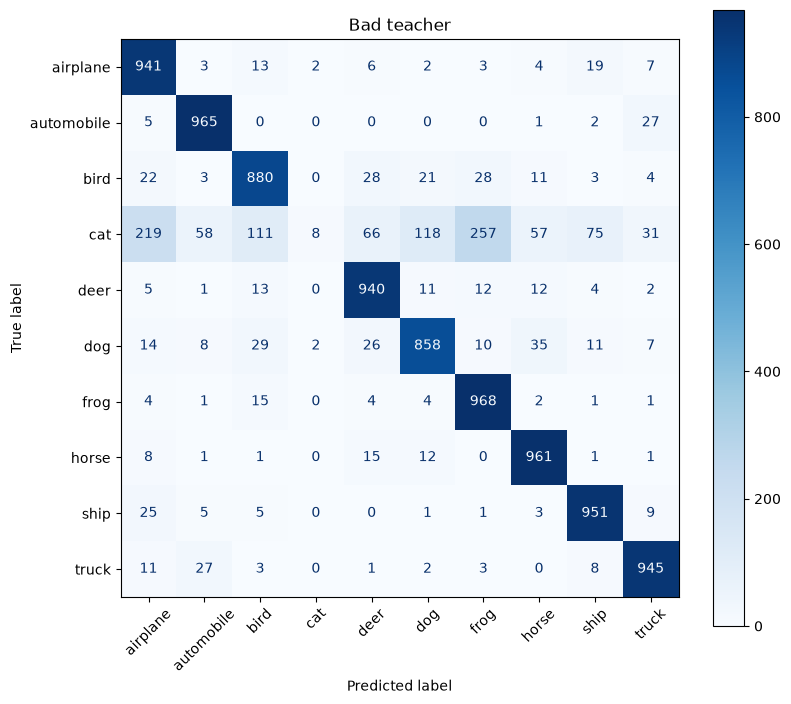
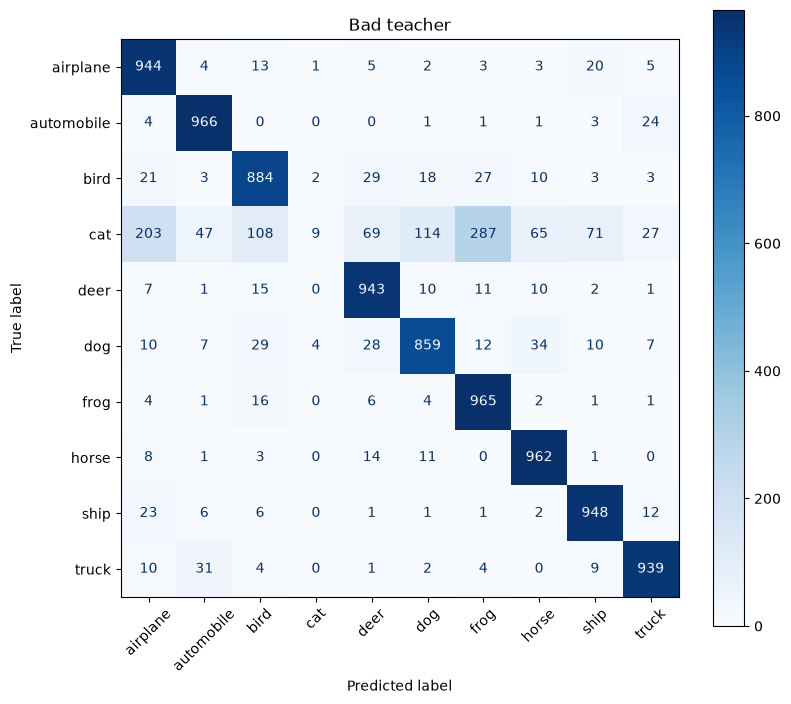
probing, relearning, evaluation for all methods and results

diff --git a/relearn.py b/relearn.py
@@ -1,0 +1,94 @@
+import copy
+import torch
+import torch.nn as nn
+import matplotlib.pyplot as plt
+from torch.utils.data import DataLoader, Subset
+
+from data import splits
+from evalutils import get_accuracy
+from utils import set_seed, get_device, load_model
+
+
+def relearn(model, few_cats, train_retain, test_forget, device, steps=300, lr=1e-4,
+            eval_every=10, cat_batch=16, retain_batch=64):
+    
+    """
+    Tests how quickly a model relearns the forgotten class when given
+    a fraction of the forgotten data, alongside normal retain data.
+    If a method only masked the final layer but kept the features,
+    the model will relearn the forgotten class very quickly.
+    """ 
+
+    model = copy.deepcopy(model).to(device)
+    criterion = nn.CrossEntropyLoss()
+    optimizer = torch.optim.SGD(model.parameters(), lr=lr, momentum=0.9, weight_decay=5e-4)
+
+    loader_cats = DataLoader(few_cats, batch_size=cat_batch, shuffle=True, drop_last=True)
+    loader_retain = DataLoader(train_retain, batch_size=retain_batch, shuffle=True, drop_last=True)
+
+    accs = [get_accuracy(model, test_forget, device)]
+    step = 0
+
+    while step < steps:
+        for (xc, yc), (xr, yr) in zip(loader_cats, loader_retain):
+            model.train()
+            x = torch.cat([xc, xr]).to(device)
+            y = torch.cat([yc, yr]).to(device)
+
+            loss = criterion(model(x), y)
+            optimizer.zero_grad()
+            loss.backward()
+            optimizer.step()
+
+            step += 1
+            if step % eval_every == 0:
+                accs.append(get_accuracy(model, test_forget, device))
+            if step == steps:
+                break
+
+    return accs
+
+
+def reauc(accs, orig_acc):
+    mean_acc = (0.5 * accs[0] + sum(accs[1:-1]) + 0.5 * accs[-1]) / (len(accs) - 1)
+    return mean_acc / orig_acc
+
+
+if __name__ == "__main__":
+    device = get_device()
+    train_retain, train_forget, _, test_forget = splits()
+
+    set_seed(42)
+    few_cats = Subset(train_forget, torch.randperm(len(train_forget))[:1000].tolist())
+
+    original = load_model("checkpoints/original_model.pt", device)
+    orig_acc = get_accuracy(original, test_forget, device)
+    print(f"Original (baseline): {orig_acc:.4f}")
+
+    models = {
+        "Retrained": "checkpoints/retrained_model.pt",
+        "Gradient ascent": "checkpoints/unlearn_gradient_ascent.pt",
+        "Bad teacher": "checkpoints/unlearn_bad_teacher.pt",
+        "Fisher Method (hard)": "checkpoints/unlearn_fisher_prune_hard.pt",
+        "Fisher Method (reset)": "checkpoints/unlearn_fisher_prune_reset.pt",
+    }
+
+    steps_x = list(range(0, 301, 10))
+    plt.axhline(y=orig_acc, color="black", linestyle="--", label="Original (baseline)")
+
+    for name, path in models.items():
+        set_seed(42)
+        accs = relearn(load_model(path, device), few_cats, train_retain, test_forget, device)
+
+        score = reauc(accs, orig_acc)
+        hit = next((s for s, a in zip(steps_x, accs) if a >= 0.75), ">300")
+        print(f"{name}: start {accs[0]:.4f} | end {accs[-1]:.4f} | steps to 75%: {hit} | ReAUC: {score:.4f}")
+
+        plt.plot(steps_x, accs, label=name)
+
+    plt.xlabel("fine-tuning steps")
+    plt.ylabel("test accuracy on cats")
+    plt.title("Relearning from 1000 cats")
+    plt.legend()
+    plt.savefig("results/relearn.png")
+    plt.close()

diff --git a/probe.py b/probe.py
@@ -1,0 +1,45 @@
+from sklearn.metrics import balanced_accuracy_score, roc_auc_score
+from sklearn.pipeline import make_pipeline
+from sklearn.linear_model import LogisticRegression
+from sklearn.preprocessing import StandardScaler
+
+from data import load_cifar, forget_class
+from evalutils import get_features
+from utils import get_device, load_model, set_seed
+
+def linear_probe(model, train, test, device):
+    x_train, y_train = get_features(model, train, device)
+    x_test, y_test = get_features(model, test, device)
+
+    y_train = (y_train == forget_class)
+    y_test = (y_test == forget_class)
+
+    probe = make_pipeline(
+        StandardScaler(),
+        LogisticRegression(class_weight="balanced", max_iter=1000, random_state=42),
+    )
+    probe.fit(x_train, y_train)
+
+    bal_acc = balanced_accuracy_score(y_test, probe.predict(x_test))
+    auc = roc_auc_score(y_test, probe.predict_proba(x_test)[:, 1])
+    return bal_acc, auc
+
+if __name__ == "__main__":
+    set_seed(42)
+    device = get_device()
+
+    train, test = load_cifar(augment=False)
+
+    models = {
+        "Original": "checkpoints/original_model.pt",
+        "Retrained": "checkpoints/retrained_model.pt",
+        "Gradient ascent": "checkpoints/unlearn_gradient_ascent.pt",
+        "Bad teacher": "checkpoints/unlearn_bad_teacher.pt",
+        "Fisher Method (hard)": "checkpoints/unlearn_fisher_prune_hard.pt",
+        "Fisher Method (reset)": "checkpoints/unlearn_fisher_prune_reset.pt"
+    }
+
+    for name, path in models.items():
+        model = load_model(path, device)
+        bal_acc, auc = linear_probe(model, train, test, device)
+        print(f"{name}: balanced acc {bal_acc:.4f} | AUC {auc:.4f}")

diff --git a/evaluate.py b/evaluate.py
@@ -1,4 +1,3 @@
-import numpy as np
 from torch.utils.data import ConcatDataset
 
 from data import splits, class_names, forget_class
@@ -38,9 +37,12 @@ if __name__ == "__main__":
     retrained = load_model("checkpoints/retrained_model.pt", device)
     grad_ascent = load_model("checkpoints/unlearn_gradient_ascent.pt", device)
     bad_teacher = load_model("checkpoints/unlearn_bad_teacher.pt", device)
+    fisher_prune_hard = load_model("checkpoints/unlearn_fisher_prune_hard.pt", device)
+    fisher_prune_reset = load_model("checkpoints/unlearn_fisher_prune_reset.pt", device)
 
     report("Original", original, retrained, test_retain, test_forget, device)
     report("Retrained", retrained, retrained, test_retain, test_forget, device)
     report("Gradient ascent", grad_ascent, retrained, test_retain, test_forget, device)
     report("Bad teacher", bad_teacher, retrained, test_retain, test_forget, device)
-    
+    report("Fisher prune hard", fisher_prune_hard, retrained, test_retain, test_forget, device)
+    report("Fisher prune reset", fisher_prune_reset, retrained, test_retain, test_forget, device)
